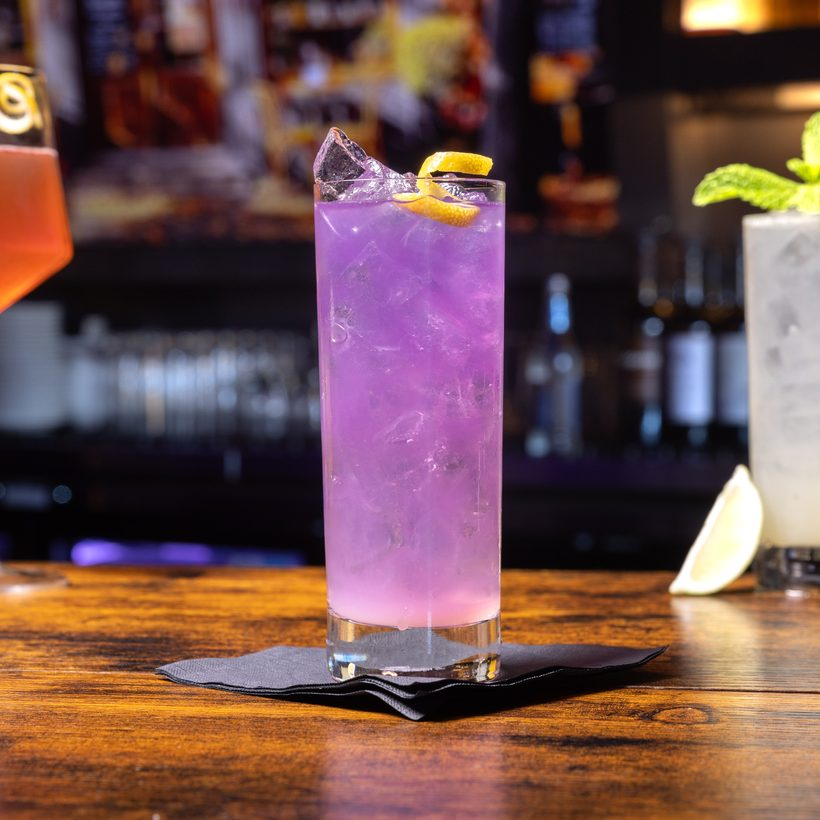
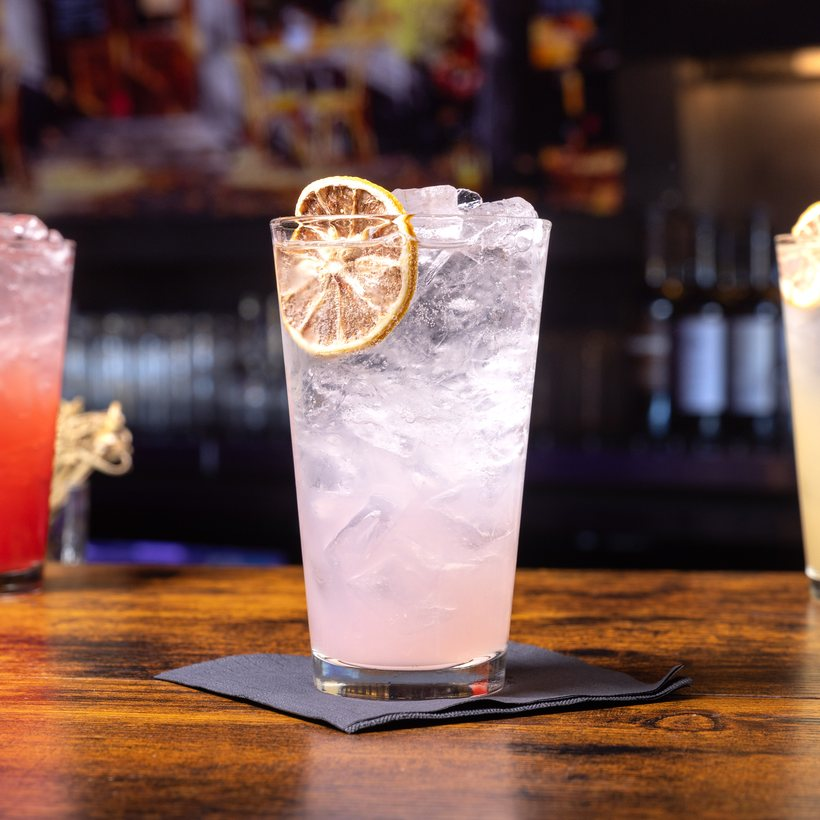
Fix: the purple drink is Purple Rain, not Sparkling Lavender Lemonade
Owner correction. The deep-purple highball previously shown as
Sparkling Lavender Lemonade is actually the Purple Rain cocktail,
which had been the one Special Cocktail with no photo.

- Purple Rain now uses that photo (Special Cocktails: 7/7 pictured)
- Sparkling Lavender Lemonade now uses the correct pale-lilac drink,
  cropped from the full-res original 652A8252 rather than Toast's
  720px copy, so it lands at the full 820px

Corroborating evidence: Toast carries a photo for Sparking Lavender
Lemonade (the pale lilac one) and none for Purple Rain, which lines
up exactly with the correction.

166 items / 115 photos. Mocktails and Special Cocktails are now
fully pictured.

diff --git a/menu.html b/menu.html
@@ -1619,7 +1619,7 @@ a:focus-visible, button:focus-visible, .btn:focus-visible {
       </div>
       <div class="menu-items-grid">
       <div class="menu-item"><div class="menu-item__photo"><img src="pictures/menu/mds-lavender-cloud.jpg" alt="MDS Lavender Cloud" loading="lazy" decoding="async"></div><div class="menu-item__info"><span class="menu-item__name">MDS Lavender Cloud</span><span class="menu-item__price">$16.00</span></div></div>
-      <div class="menu-item"><div class="menu-item__photo menu-item__photo--empty"><svg viewBox="0 0 24 24"><rect x="3" y="3" width="18" height="18" rx="2"/><circle cx="8.5" cy="8.5" r="1.5"/><path d="M21 15l-5-5L5 21"/></svg></div><div class="menu-item__info"><span class="menu-item__name">Purple Rain</span><span class="menu-item__price">$15.00</span></div></div>
+      <div class="menu-item"><div class="menu-item__photo"><img src="pictures/menu/purple-rain.jpg" alt="Purple Rain" loading="lazy" decoding="async"></div><div class="menu-item__info"><span class="menu-item__name">Purple Rain</span><span class="menu-item__price">$15.00</span></div></div>
       <div class="menu-item"><div class="menu-item__photo"><img src="pictures/menu/lychee-lush-mojito.jpg" alt="Lychee Lush Mojito" loading="lazy" decoding="async"></div><div class="menu-item__info"><span class="menu-item__name">Lychee Lush Mojito</span><span class="menu-item__price">$14.00</span></div></div>
       <div class="menu-item"><div class="menu-item__photo"><img src="pictures/menu/cranberry-spritz.jpg" alt="Cranberry Spritz" loading="lazy" decoding="async"></div><div class="menu-item__info"><span class="menu-item__name">Cranberry Spritz</span><span class="menu-item__price">$14.00</span></div></div>
       <div class="menu-item"><div class="menu-item__photo"><img src="pictures/menu/mds-blood-orange-gimlet.jpg" alt="MDS Blood Orange Gimlet" loading="lazy" decoding="async"></div><div class="menu-item__info"><span class="menu-item__name">MDS Blood Orange Gimlet</span><span class="menu-item__price">$16.00</span></div></div>
